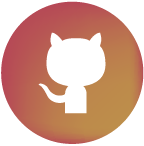
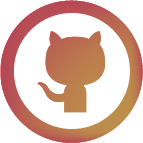
hover_github

diff --git a/style.css b/style.css
@@ -112,7 +112,7 @@
         #github{
             background-image: url("/icons/grithub-01.png");
         }
-        #git:hover{
+        #github:hover{
             background-image: url("/icons/grithubhover-01.png");
         }
         
